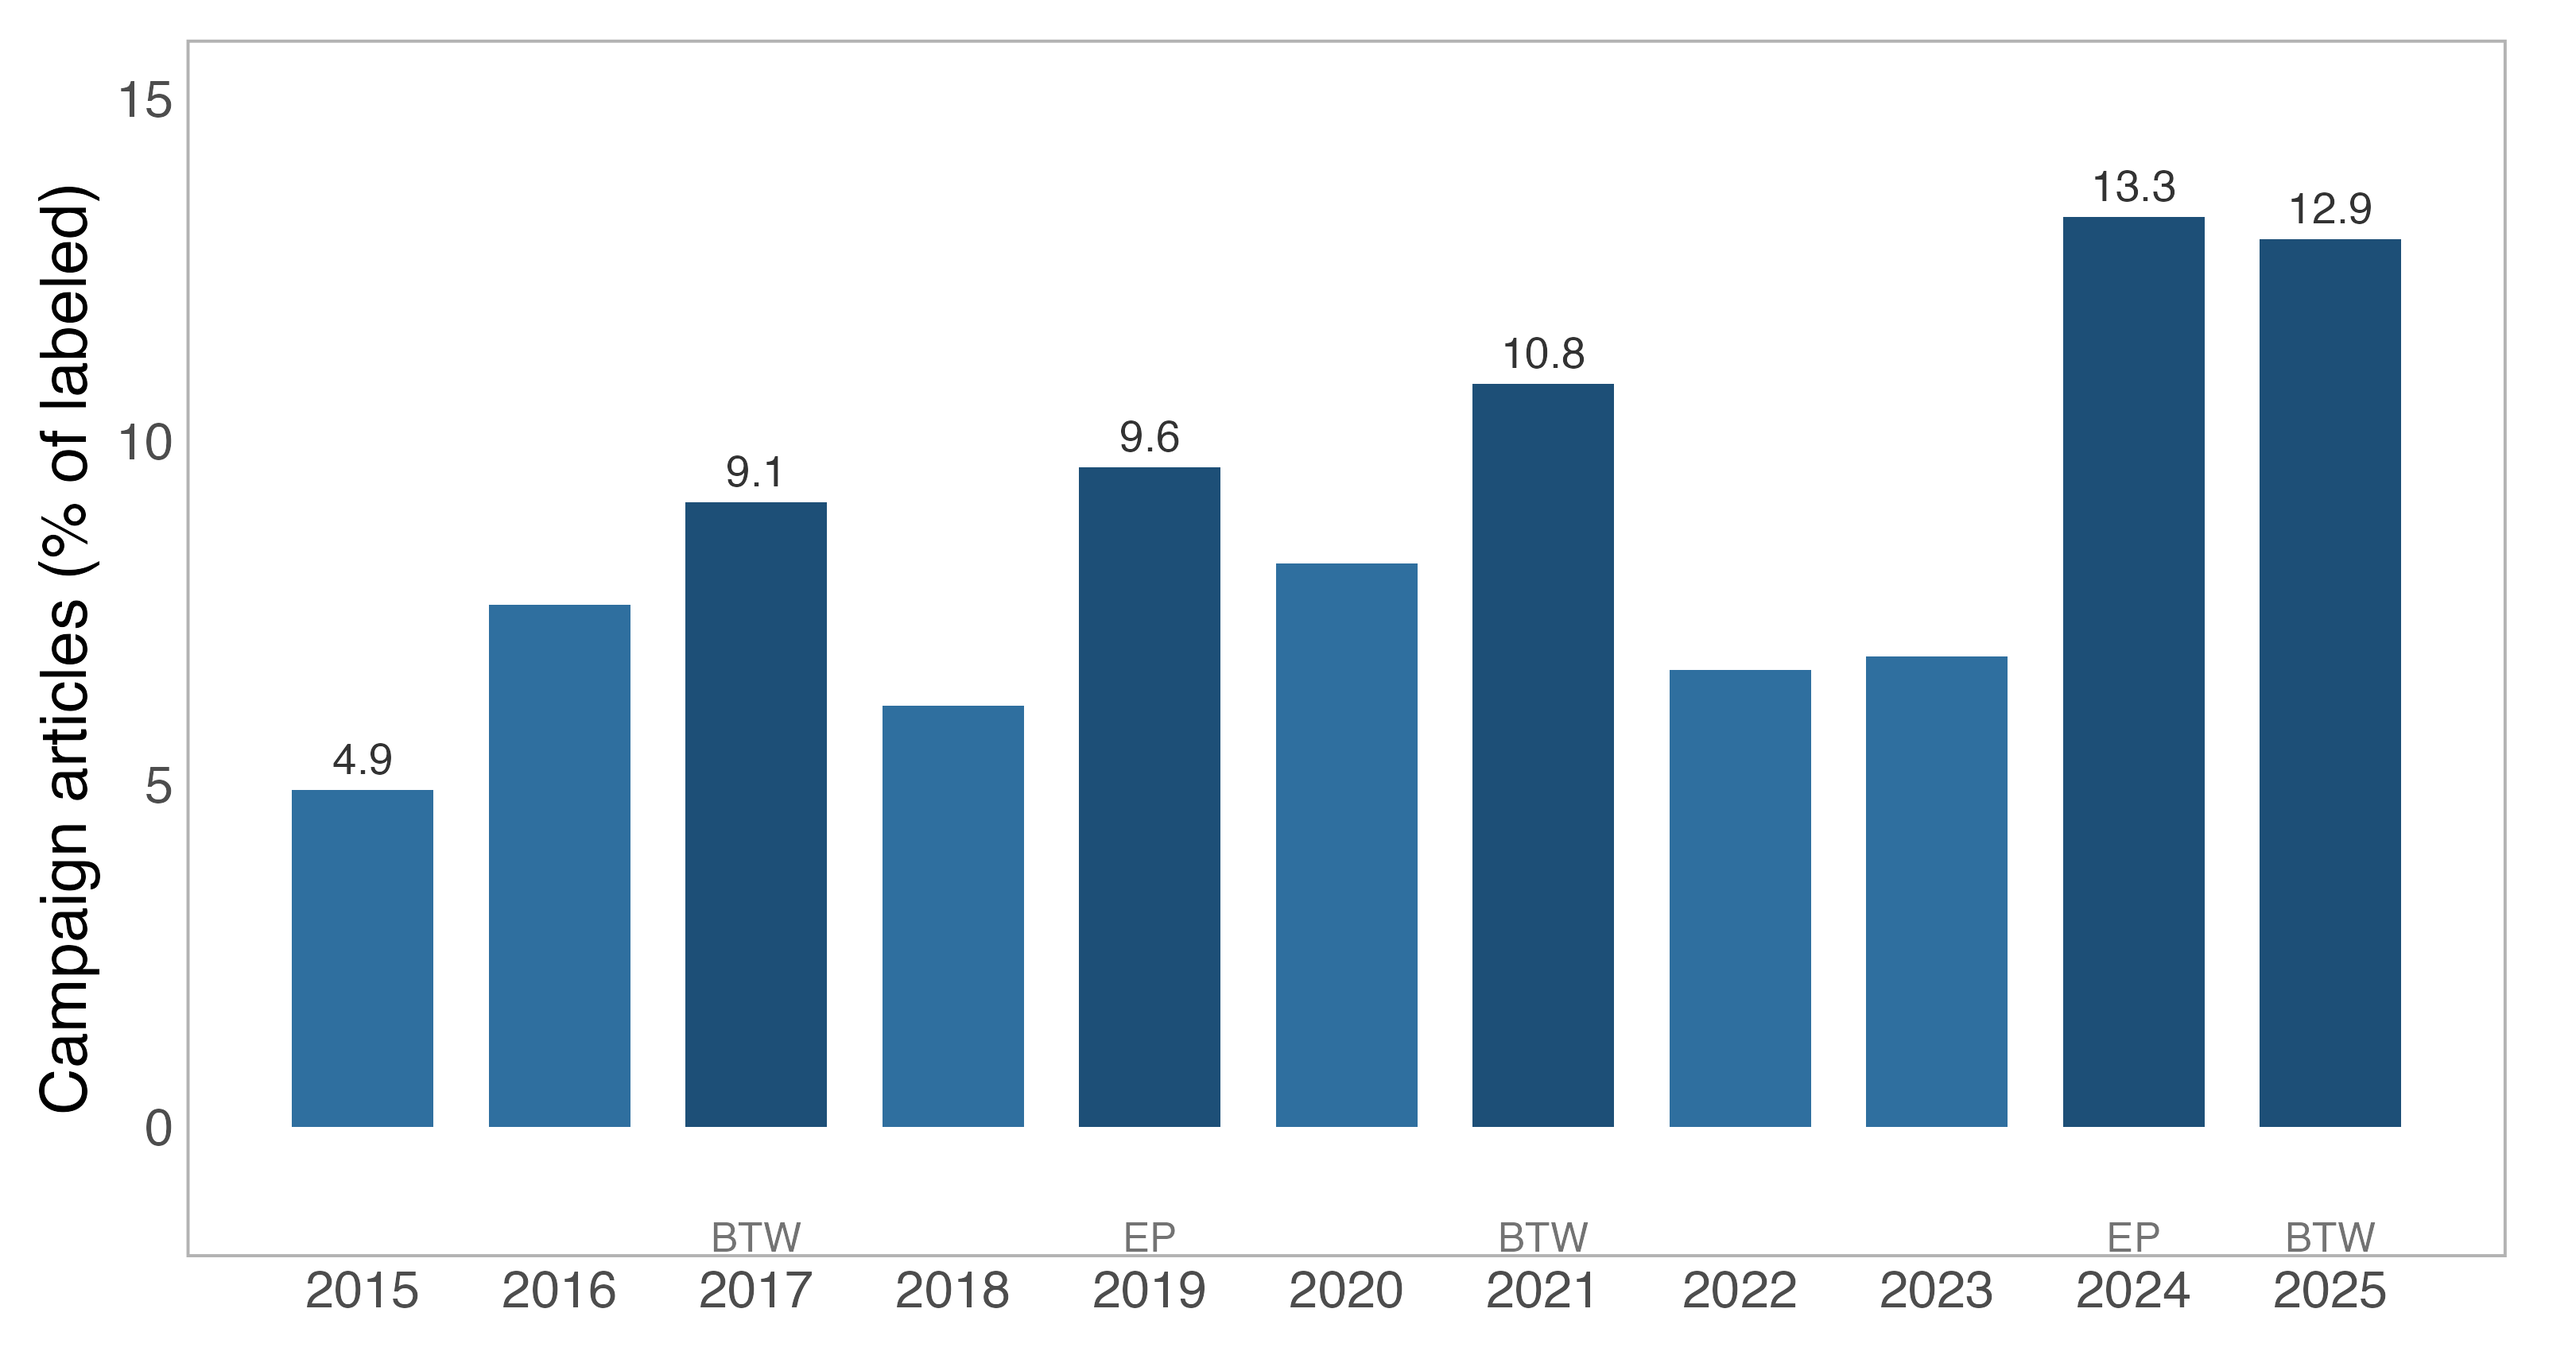
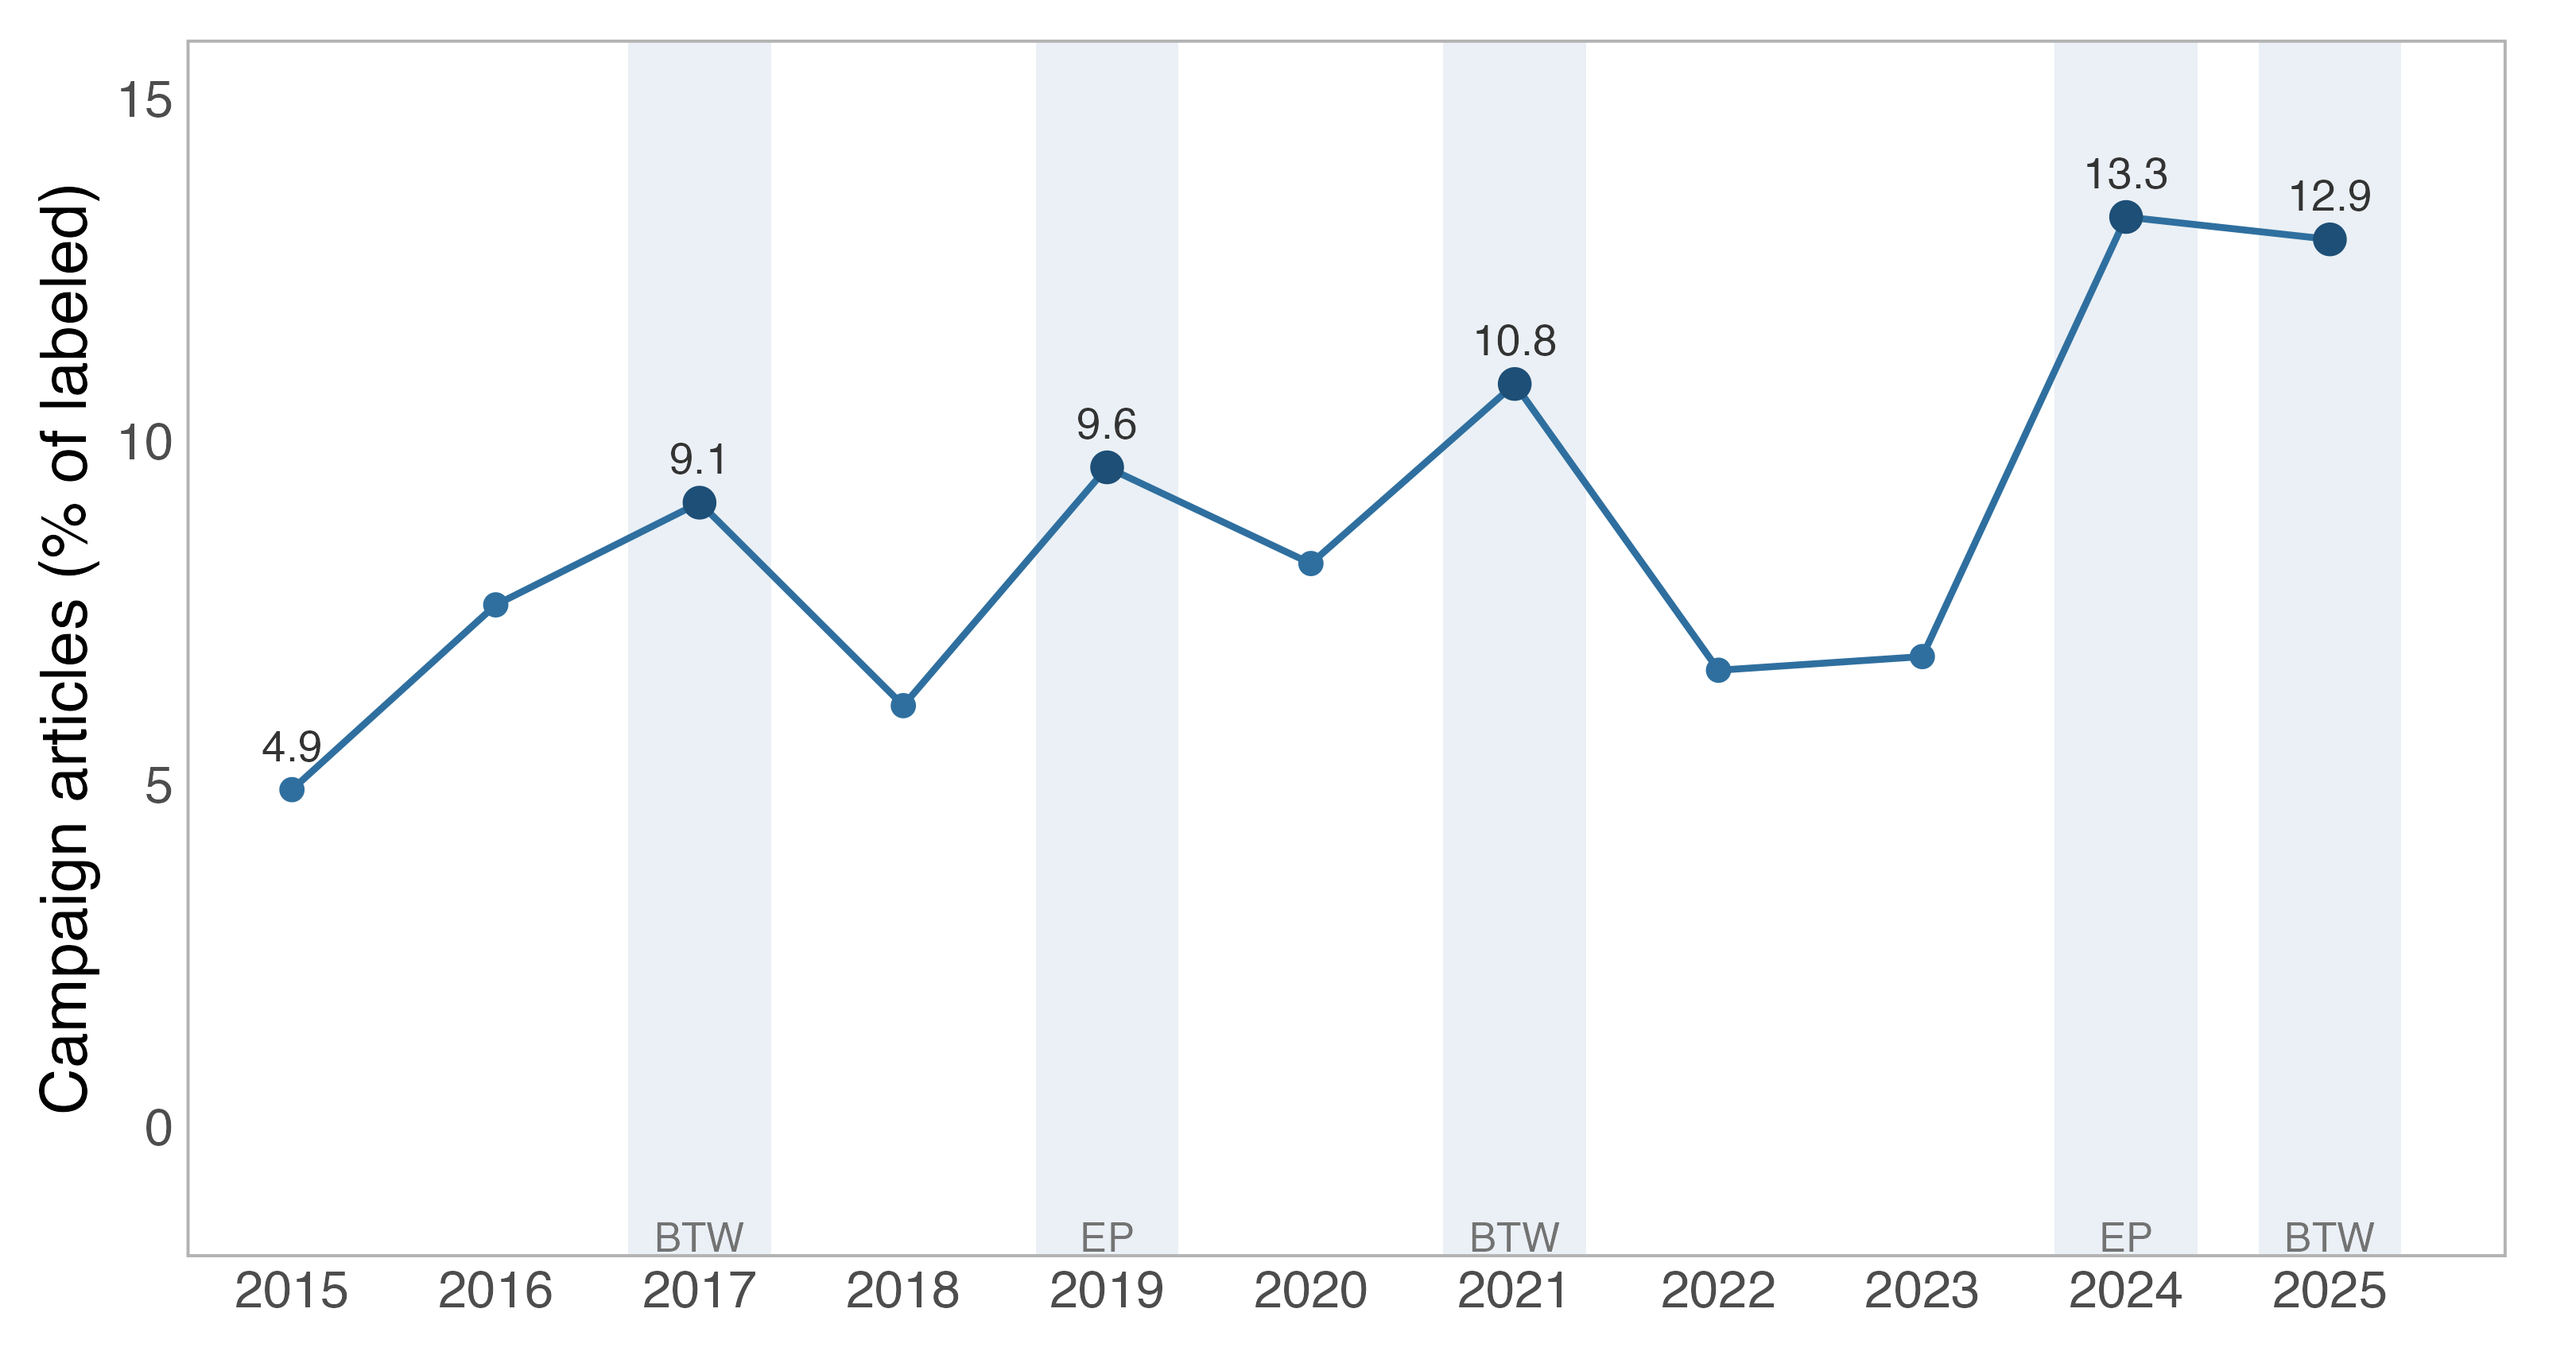
Redesign campaign-share figure: line with election-year bands, not bars

diff --git a/localparties/index.html b/localparties/index.html
@@ -144,9 +144,10 @@
 
       <figure class="figure">
         <img src="news_campaign_share_by_year.png"
-             alt="Bar chart: share of local party news articles classified as campaign content by year, peaking in German federal and European election years.">
+             alt="Line chart: share of local party news articles classified as campaign content by year, peaking in German federal and European election years, which are marked by shaded bands.">
         <figcaption>Share of news articles classified as election campaigning,
-          by year (BTW = federal election, EP = European election).</figcaption>
+          by year. Shaded bands mark election years (BTW = federal election,
+          EP = European election).</figcaption>
       </figure>
 
       <p>The topic series also correspond to major events. Migration, climate,
